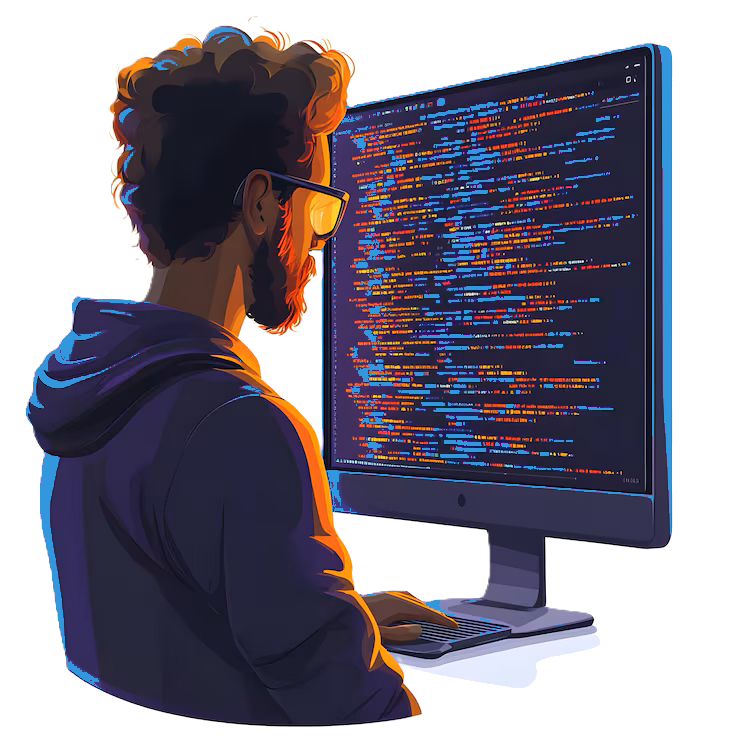
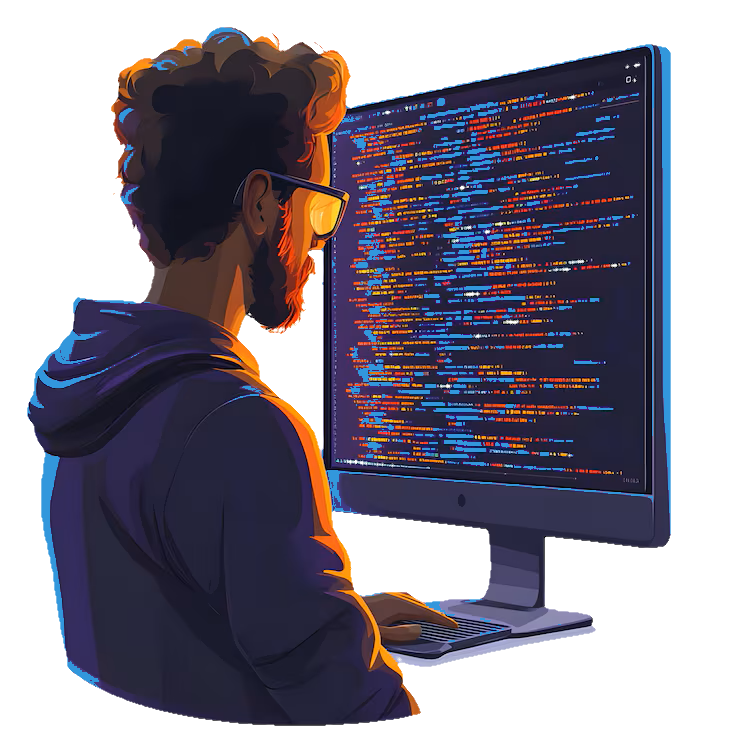
Updated visuals

diff --git a/assets/css/style.css b/assets/css/style.css
@@ -444,7 +444,7 @@ h6 {
     height: auto;
     max-height: 500px;
     object-fit: contain;
-    filter: drop-shadow(0 10px 30px rgba(0, 212, 255, 0.3));
+    filter: drop-shadow(0 10px 30px rgba(255, 255, 255, 0.3));
     transition: transform 0.3s ease;
 }
 
